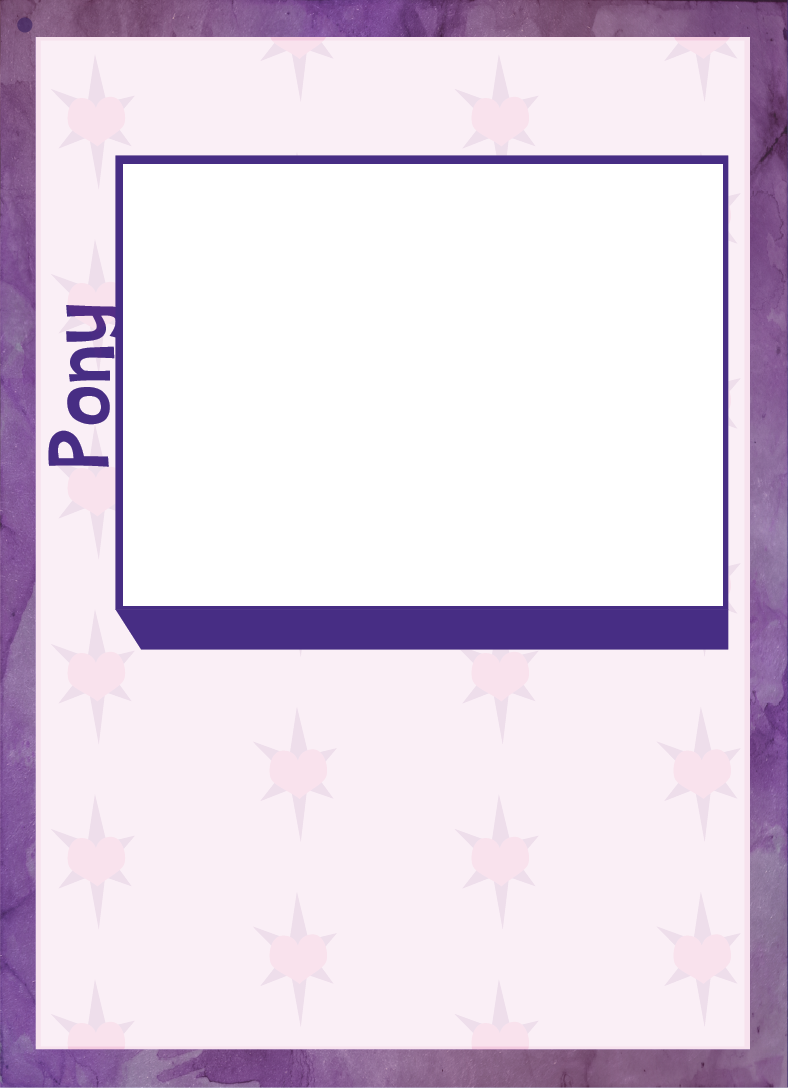
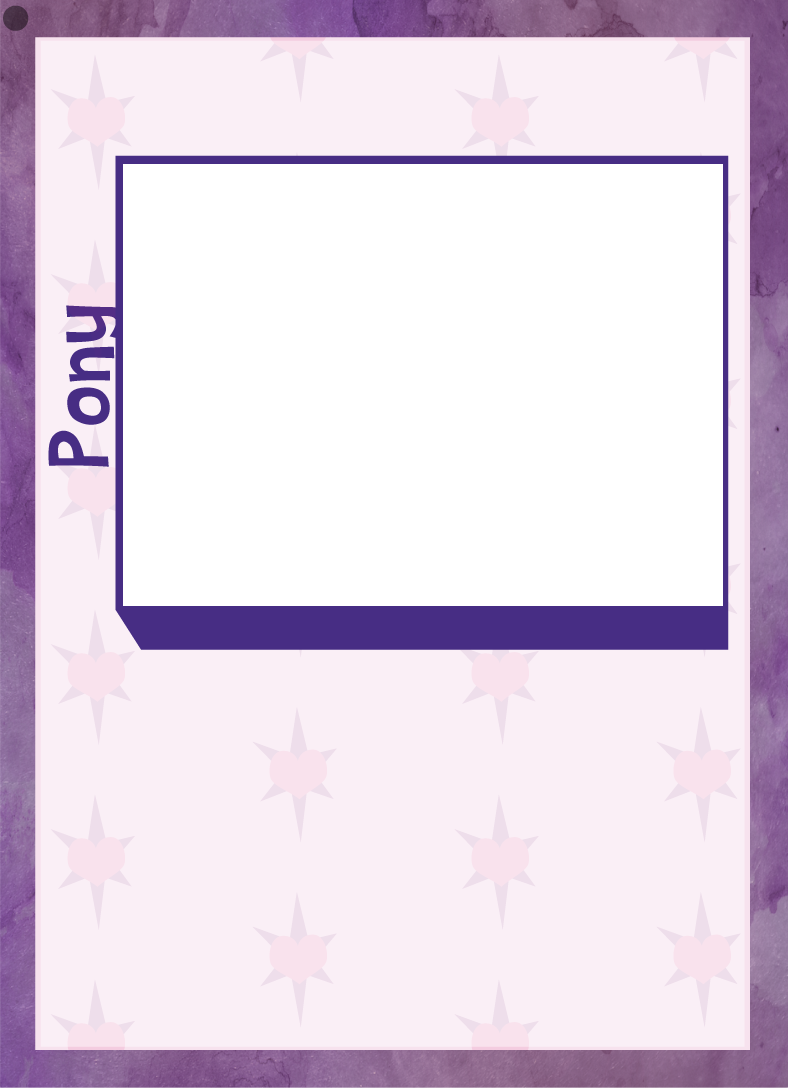
Updated the card template images. Disabled applying shadows to strips on modified cards - still trying to figure out the cause of the crashes. Changed "/dr " to "/d " since that's the Berrytube standard. Fixed the server sending the notice that a player has ended their turn so that it informs everyo

diff --git a/libs/GameServer.py b/libs/GameServer.py
@@ -379,9 +379,9 @@ class GameServer(object):
 			else:
 				name = player.name
 			chat = message[len("CHAT:"):]
-			if chat.startswith("/dr "):
+			if chat.startswith("/d "):
 				if player.is_admin or player.is_dev:
-					self.server.sendall("ADD_CHAT:SERVER:"+chat[len("/dr "):]+ " drink!")
+					self.server.sendall("ADD_CHAT:SERVER:"+chat[len("/d "):]+ " drink!")
 					self.server.sendall("ALERT:drink_call")
 				else:
 					self.server.sendto(player.address,"ADD_CHAT:SERVER:PM:You can't do drink calls. Sorry :/")
@@ -468,7 +468,7 @@ class GameServer(object):
 					if len(player.hand.cards) < MIN_CARDS_IN_HAND:
 						self.server.sendto(player.address, "ADD_CHAT:SERVER:PM:You need to draw up to "+str(MIN_CARDS_IN_HAND)+" before you can end your turn.")
 					else:
-						self.server.sendto(player.address, "ADD_CHAT:SERVER:"+player.name+" has ended their turn.")
+						self.server.sendall("ADD_CHAT:SERVER:"+player.name+" has ended their turn.")
 						self.nextPlayersTurn()
 				else:
 					self.server.sendto(player.address,"ADD_CHAT:SERVER:PM:It's not your turn, dummy!")

diff --git a/libs/Deck.py b/libs/Deck.py
@@ -37,7 +37,7 @@ def cut_and_paste_strip(src_img, dest_srf, p_rect, tint, shadow_color=(0,0,0)):
 	srf.blit(src_img,(-rect.left,-rect.top))
 	srf.fill(tint, None, special_flags = BLEND_RGB_MULT)
 	pygame.draw.rect(srf, (255,255,255), (0,0,rect.width,rect.height), 7)
-	srf = apply_shadow(srf,18,96,shadow_color)
+	#srf = apply_shadow(srf,18,96,shadow_color)
 
 	"""
 	offset = 2

diff --git a/libs/Controllers/ConnectMenuController.py b/libs/Controllers/ConnectMenuController.py
@@ -319,7 +319,7 @@ class ConnectMenuController(Controller):
 		message = None
 		text = str(self.name_inputbox.text)
 		legal = True
-		if len(text) < 3:
+		if len(text) < 2:
 			message = "NAME: Name is too short."
 			legal = False
 		elif text[0] == " " or text[-1] == " ":
